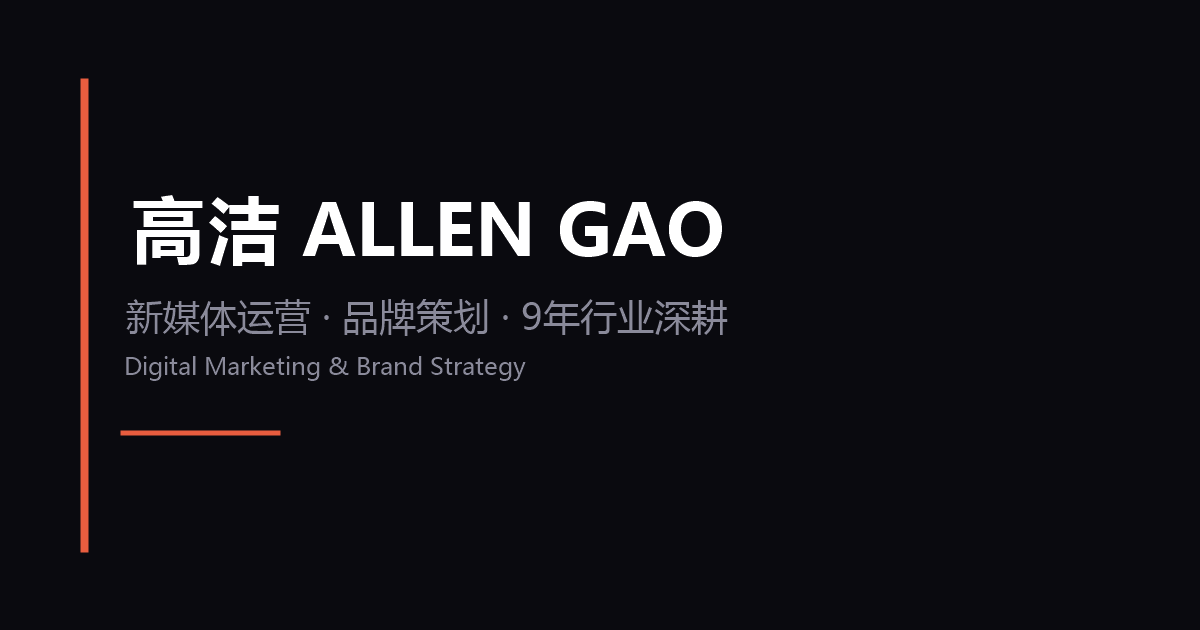
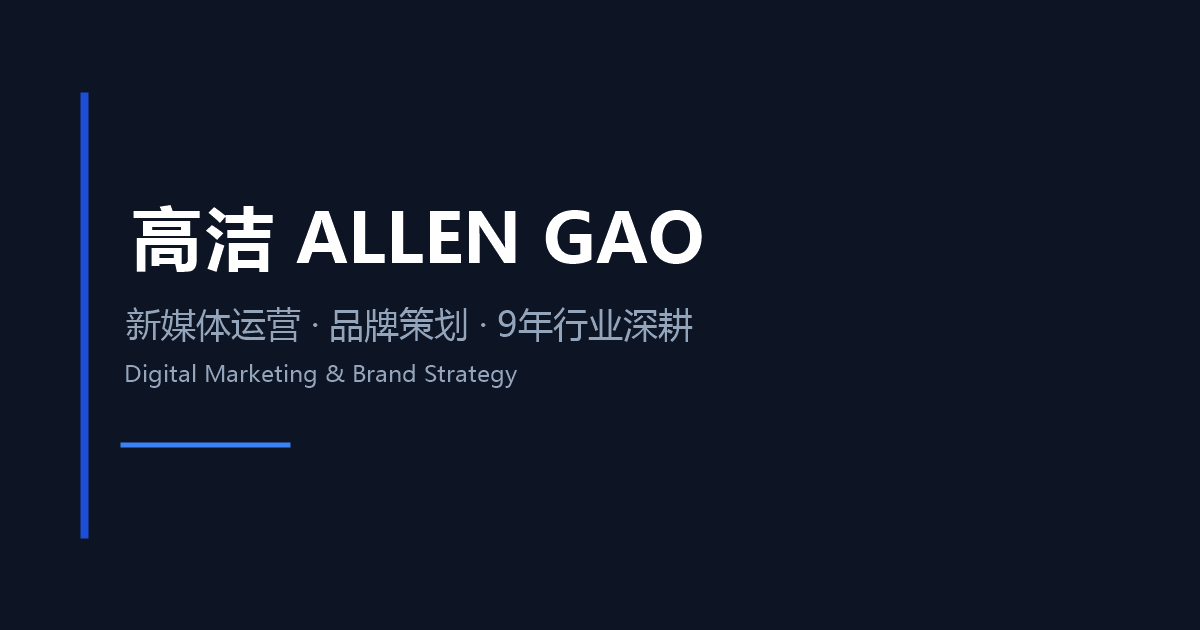
style: 视觉精修 - 蓝白配色层次/字号梯度统一/图片比例(4:5头像+首屏照片叠加数据卡)/品牌色资产同步

Changed region(s): [[0.0617, 0.1206, 0.6167, 0.8746]]

diff --git a/index.html b/index.html
@@ -33,54 +33,67 @@
     <script src="site-data.js"></script>
     <style>
         :root {
-            --bg: #f8fafc;
-            --bg-soft: #eef2f7;
+            /* 色彩：蓝白为主，暖橙点睛，中性色四级层次 */
+            --bg: #f7f9fc;
+            --bg-soft: #eef2f8;
+            --bg-tint: #eff6ff;
             --card: #ffffff;
-            --ink: #0f172a;
-            --ink-2: #475569;
+            --ink: #0d1525;
+            --ink-2: #4a5a6e;
             --ink-3: #94a3b8;
-            --brand: #2563eb;
+            --brand: #1d4ed8;
             --brand-2: #3b82f6;
-            --brand-soft: rgba(37, 99, 235, 0.08);
+            --brand-soft: rgba(29, 78, 216, 0.07);
             --accent: #f97316;
-            --accent-soft: rgba(249, 115, 22, 0.12);
-            --border: #e2e8f0;
-            --border-2: #cbd5e1;
-            --dark: #0f172a;
-            --dark-2: #1e293b;
+            --accent-soft: rgba(249, 115, 22, 0.1);
+            --border: #e6ecf4;
+            --border-2: #d3ddea;
+            --dark: #0d1525;
+            --dark-2: #16233b;
             --success: #10b981;
             --danger: #ef4444;
             --warn: #f59e0b;
-            --shadow: 0 24px 60px rgba(15, 23, 42, 0.08);
-            --shadow-sm: 0 8px 24px rgba(15, 23, 42, 0.06);
+            /* 阴影三档，柔和不发灰 */
+            --shadow-xs: 0 2px 8px rgba(13, 21, 37, 0.04);
+            --shadow-sm: 0 6px 22px rgba(13, 21, 37, 0.06);
+            --shadow: 0 18px 44px rgba(13, 21, 37, 0.09);
+            /* 圆角梯度 */
+            --r-sm: 10px; --r-md: 16px; --r-lg: 22px; --r-xl: 28px;
         }
         body.dark {
-            --bg: #0b1220;
-            --bg-soft: #111a2c;
-            --card: #151f33;
-            --ink: #f1f5f9;
-            --ink-2: #94a3b8;
-            --ink-3: #64748b;
-            --brand: #60a5fa;
+            --bg: #080d18;
+            --bg-soft: #0f1728;
+            --bg-tint: rgba(59, 130, 246, 0.07);
+            --card: #121c30;
+            --ink: #eef2f8;
+            --ink-2: #93a4bb;
+            --ink-3: #61738c;
+            --brand: #7ba9ff;
             --brand-2: #3b82f6;
-            --brand-soft: rgba(96, 165, 250, 0.1);
-            --border: rgba(148, 163, 184, 0.14);
+            --brand-soft: rgba(123, 169, 255, 0.1);
+            --border: rgba(148, 163, 184, 0.13);
             --border-2: rgba(148, 163, 184, 0.26);
-            --shadow: 0 24px 60px rgba(0, 0, 0, 0.4);
-            --shadow-sm: 0 8px 24px rgba(0, 0, 0, 0.3);
+            --dark: #05080f;
+            --dark-2: #0e1729;
+            --shadow-xs: 0 2px 8px rgba(0,0,0,.25);
+            --shadow-sm: 0 6px 22px rgba(0, 0, 0, 0.32);
+            --shadow: 0 18px 44px rgba(0, 0, 0, 0.42);
         }
         * { margin: 0; padding: 0; box-sizing: border-box; }
         html { scroll-behavior: smooth; }
         body {
-            background: #f8fafc;
+            background: #f7f9fc;
             background: var(--bg);
-            color: #0f172a;
+            color: #0d1525;
             color: var(--ink);
             font-family: -apple-system, BlinkMacSystemFont, 'PingFang SC', 'Hiragino Sans GB', 'Microsoft YaHei', 'Segoe UI', sans-serif;
-            line-height: 1.7;
+            font-size: 16px;
+            line-height: 1.75;
+            letter-spacing: 0.005em;
             overflow-x: hidden;
             transition: background 0.4s ease, color 0.4s ease;
             -webkit-font-smoothing: antialiased;
+            text-rendering: optimizeLegibility;
         }
         #preloader {
             position: fixed; inset: 0; background: var(--bg); z-index: 9999;
@@ -158,20 +171,20 @@
         }
         .mobile-menu a:hover { color: var(--brand); }
         /* 通用 */
-        .wrap { max-width: 1200px; margin: 0 auto; padding: 0 5%; }
-        .section { padding: 7rem 0; position: relative; z-index: 2; }
+        .wrap { max-width: 1160px; margin: 0 auto; padding: 0 5%; }
+        .section { padding: 6.5rem 0; position: relative; z-index: 2; }
         .sec-label {
-            display: inline-block; font-size: 0.78rem; font-weight: 700;
-            letter-spacing: 3px; text-transform: uppercase; color: var(--brand);
-            margin-bottom: 1.2rem;
+            display: inline-block; font-size: 0.7rem; font-weight: 700;
+            letter-spacing: 3.5px; text-transform: uppercase; color: var(--brand);
+            margin-bottom: 0.9rem;
         }
         .sec-title {
-            font-size: 2.6rem;
-            font-size: clamp(2rem, 4.6vw, 3.4rem);
-            font-weight: 800; letter-spacing: -0.02em; line-height: 1.15;
-            margin-bottom: 1rem;
+            font-size: 2.5rem;
+            font-size: clamp(1.9rem, 4vw, 2.9rem);
+            font-weight: 800; letter-spacing: -0.025em; line-height: 1.14;
+            margin-bottom: 1.1rem;
         }
-        .sec-sub { font-size: 1.05rem; color: var(--ink-2); max-width: 640px; line-height: 1.8; }
+        .sec-sub { font-size: 1rem; color: var(--ink-2); max-width: 600px; line-height: 1.85; letter-spacing: 0.01em; }
         .btn {
             padding: 0.85rem 2rem; border-radius: 50px; font-size: 0.95rem;
             font-weight: 600; text-decoration: none; cursor: pointer;
@@ -183,10 +196,16 @@
         .btn-ghost { background: transparent; color: var(--ink); border: 1px solid var(--border-2); }
         .btn-ghost:hover { border-color: var(--brand); color: var(--brand); }
         /* Hero */
-        .hero { padding: 10rem 0 6rem; position: relative; overflow: hidden; }
+        .hero { padding: 9rem 0 5rem; position: relative; overflow: hidden; }
+        .hero::after {
+            content: ''; position: absolute; right: -8%; top: 8%;
+            width: 420px; height: 420px; border-radius: 50%;
+            background: radial-gradient(circle, var(--brand-soft) 0%, transparent 70%);
+            pointer-events: none; z-index: -1;
+        }
         .hero-grid {
-            display: grid; grid-template-columns: 1.1fr 0.9fr;
-            gap: 4rem; align-items: center;
+            display: grid; grid-template-columns: 1.15fr 0.85fr;
+            gap: 4.5rem; align-items: center;
         }
         .hero-badge {
             display: inline-flex; align-items: center; gap: 0.5rem;
@@ -195,10 +214,10 @@
             font-size: 0.8rem; font-weight: 600; margin-bottom: 1.8rem;
         }
         .hero-title {
-            font-size: 3.4rem;
-            font-size: clamp(2.6rem, 6.5vw, 5rem);
-            font-weight: 800; letter-spacing: -0.03em; line-height: 1.08;
-            margin-bottom: 1.4rem;
+            font-size: 3rem;
+            font-size: clamp(2.5rem, 5.4vw, 4.1rem);
+            font-weight: 800; letter-spacing: -0.032em; line-height: 1.1;
+            margin-bottom: 1.3rem;
         }
         .hero-title .grad {
             background: linear-gradient(100deg, var(--brand) 0%, var(--brand-2) 45%, var(--accent) 100%);
@@ -210,7 +229,7 @@
             padding-right: 4px; animation: blink 1s step-end infinite; min-height: 1.1em;
         }
         @keyframes blink { 50% { border-color: transparent; } }
-        .hero-sub { font-size: 1.15rem; color: var(--ink-2); margin-bottom: 2.2rem; max-width: 560px; line-height: 1.9; }
+        .hero-sub { font-size: 1.05rem; color: var(--ink-2); margin-bottom: 2.2rem; max-width: 540px; line-height: 1.9; letter-spacing: 0.01em; }
         .hero-cta { display: flex; gap: 1rem; flex-wrap: wrap; margin-bottom: 3rem; }
         .hero-social-proof { display: flex; align-items: center; gap: 1rem; }
         .avatar-stack { display: flex; }
@@ -226,6 +245,32 @@
         .proof-text strong { color: var(--ink); }
         /* Hero 右侧视觉卡 */
         .hero-visual { position: relative; }
+        .hero-photo {
+            display: block; width: 100%; aspect-ratio: 4/5;
+            object-fit: cover; object-position: center 20%;
+            border-radius: var(--r-xl); background: var(--bg-soft);
+            border: 1px solid var(--border); box-shadow: var(--shadow);
+        }
+        .hero-float {
+            position: absolute; left: -1.4rem; bottom: -1.6rem;
+            width: 250px; padding: 1rem 1.1rem;
+            background: rgba(255, 255, 255, 0.93);
+            backdrop-filter: blur(12px); -webkit-backdrop-filter: blur(12px);
+            border: 1px solid var(--border); border-radius: var(--r-lg);
+            box-shadow: var(--shadow);
+        }
+        body.dark .hero-float { background: rgba(14, 23, 41, 0.9); }
+        .hero-float .stat-row { grid-template-columns: 1fr 1fr; gap: 0.5rem; margin-bottom: 0.55rem; }
+        .hero-float .stat-tile { padding: 0.6rem 0.7rem; border-radius: 12px; }
+        .hero-float .stat-tile .n { font-size: 1.12rem; }
+        .hero-float .stat-tile .l { font-size: 0.66rem; line-height: 1.4; }
+        .hero-float .mini-chart { height: 38px; padding: 7px; border-radius: var(--r-sm); }
+        #avatarFrame { padding: 0.7rem; border-radius: var(--r-xl); }
+        #avatarFrame img {
+            width: 100%; aspect-ratio: 4/5; object-fit: cover;
+            object-position: center 20%; border-radius: 20px; display: block;
+        }
+        #avatarFrame .placeholder { aspect-ratio: 4/5 !important; }
         .hero-card {
             background: var(--card); border: 1px solid var(--border);
             border-radius: 28px; padding: 2.2rem;
@@ -356,6 +401,40 @@
         .work-title { font-size: 1.15rem; font-weight: 700; margin-bottom: 0.4rem; }
         .work-desc { color: var(--ink-2); font-size: 0.88rem; line-height: 1.7; }
         .empty-note { grid-column: 1/-1; text-align: center; padding: 3rem; color: var(--ink-3); font-size: 0.9rem; }
+        /* ===== 排版比例统一 ===== */
+        .work-title, .timeline-title, .life-title {
+            font-size: 1.06rem; font-weight: 700;
+            letter-spacing: -0.01em; margin-bottom: 0.42rem; line-height: 1.45;
+        }
+        .work-desc, .life-desc, .timeline-desc, .testi-text {
+            font-size: 0.875rem; line-height: 1.78; color: var(--ink-2);
+        }
+        .method-card p, .service-card p { font-size: 0.875rem; line-height: 1.78; }
+        .method-card h4, .service-card h4 {
+            font-size: 1.06rem; font-weight: 700;
+            letter-spacing: -0.01em; margin-bottom: 0.45rem;
+        }
+        .work-cat, .life-date, .detail-cat {
+            font-size: 0.72rem; font-weight: 700; letter-spacing: 2px;
+        }
+        .work-body { padding: 1.45rem 1.55rem 1.6rem; }
+        .life-info { padding: 1.25rem 1.45rem 1.45rem; }
+        .method-card { padding: 1.7rem 1.55rem; }
+        /* 区块节奏：标题下统一 3rem */
+        .method-grid { margin-top: 3rem; }
+        .timeline { margin-top: 3rem; }
+        .service-grid, .life-grid, .testi-grid { margin-top: 3rem; }
+        .social-grid { margin-top: 3rem; }
+        .filter-row { margin: 2.8rem 0 2.2rem; }
+        .highlight-grid { margin-top: 3rem !important; }
+        .notes-grid { margin-top: 3rem !important; }
+        .note-card:hover {
+            transform: translateY(-4px);
+            border-color: rgba(148, 163, 184, 0.34) !important;
+        }
+        .brands-strip { gap: 1rem 2.4rem; }
+        .brands-strip .b { font-size: 1.05rem; letter-spacing: 0.06em; }
+
         /* 深色对比区块 */
         .dark-band { background: var(--dark); color: #f1f5f9; }
         body.dark .dark-band { background: var(--dark); }
@@ -739,6 +818,26 @@
             .lb-prev { left: 8px; } .lb-next { right: 8px; }
             #back-top { right: 16px; bottom: 16px; }
         }
+        @media (max-width: 900px) {
+            .hero-grid { grid-template-columns: 1fr; gap: 3.2rem; }
+            .contact-wrap { grid-template-columns: 1fr; }
+            .skills-grid { grid-template-columns: 1fr; }
+            .method-grid { grid-template-columns: 1fr 1fr; }
+            /* about-grid 用了内联样式，移动端需强制单栏 */
+            .about-grid { grid-template-columns: 1fr !important; gap: 2.5rem !important; }
+            .hero-visual, #avatarFrame { max-width: 440px; margin-left: auto; margin-right: auto; }
+            .hero-float { left: -0.6rem; width: 232px; }
+        }
+        @media (max-width: 768px) {
+            .hero { padding: 6.5rem 0 4rem; }
+            .hero-float { left: -0.5rem; bottom: -1rem; width: min(218px, 62%); padding: 0.85rem 0.9rem; }
+            .hero-float .stat-tile .n { font-size: 1rem; }
+            .hero-float .stat-tile .l { font-size: 0.62rem; }
+            .method-grid { grid-template-columns: 1fr; }
+            .detail-media { aspect-ratio: 4/3; }
+            .detail-title { font-size: 1.35rem; }
+            .detail-body { padding: 1.6rem 1.5rem 1.8rem; }
+        }
         @media (prefers-reduced-motion: reduce) {
             * { animation-duration: 0.01ms !important; transition-duration: 0.01ms !important; }
         }
@@ -806,14 +905,8 @@
                 </div>
             </div>
             <div class="hero-visual">
-                <div class="hero-card">
-                    <div class="card-head">
-                        <div class="ic">📊</div>
-                        <div>
-                            <div class="t" data-i18n="hero_card_t">影响力实时看板</div>
-                            <div class="s" data-i18n="hero_card_s">Personal Impact Dashboard</div>
-                        </div>
-                    </div>
+                <img class="hero-photo" id="heroPhoto" src="assets/avatar.jpg" alt="高洁 Allen Gao" onerror="this.style.display='none'">
+                <div class="hero-float">
                     <div class="stat-row" id="heroStats"></div>
                     <div class="mini-chart" aria-hidden="true">
                         <div class="bar"></div><div class="bar"></div><div class="bar"></div>
@@ -2241,6 +2334,13 @@
             const badge = document.getElementById('heroBadge');
             if (badge && badge.firstChild) {
                 badge.firstChild.style.color = (st.available === false) ? 'var(--ink-3)' : 'var(--success)';
+            }
+            /* 首屏照片跟随头像设置 */
+            const hp = document.getElementById('heroPhoto');
+            if (hp) {
+                const src = AssetStore.resolve(DATA.about.avatar);
+                if (src) { hp.src = src; hp.style.display = ''; }
+                else { hp.style.display = 'none'; }
             }
             document.getElementById('heroLine1').textContent = DATA.hero.line1;
             document.getElementById('heroSubtitle').innerHTML = DATA.hero.subtitle;
